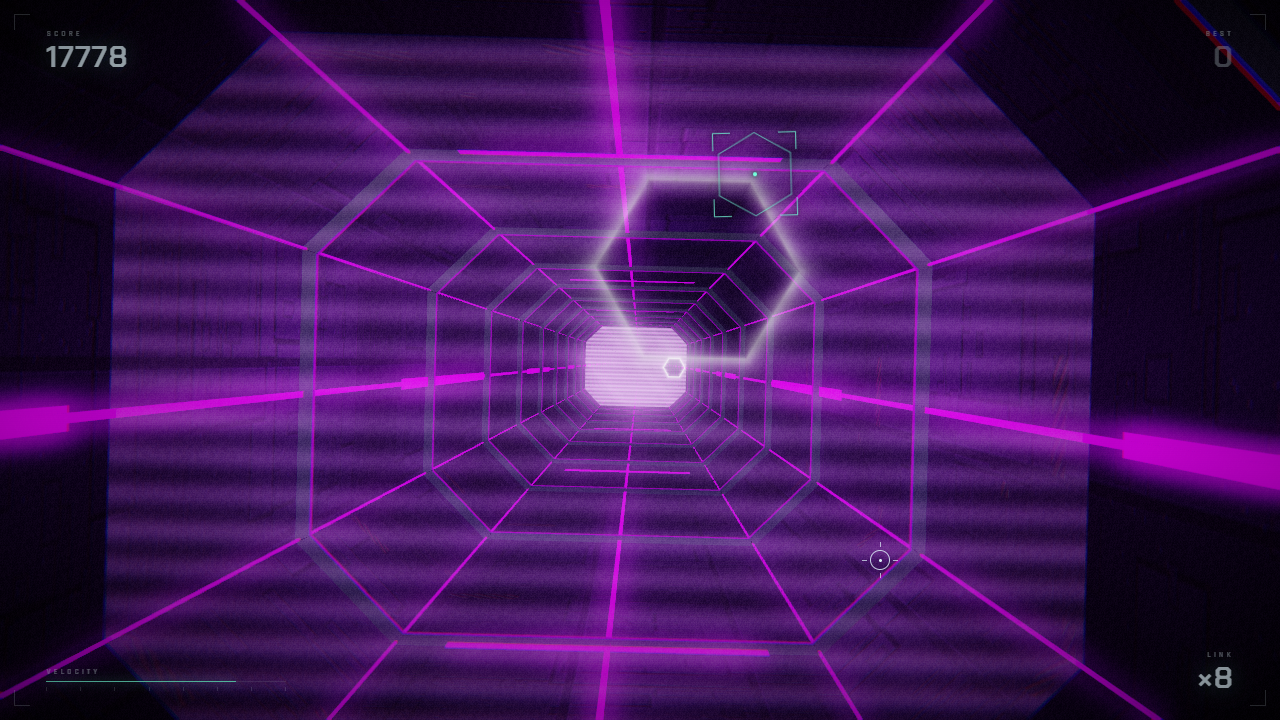
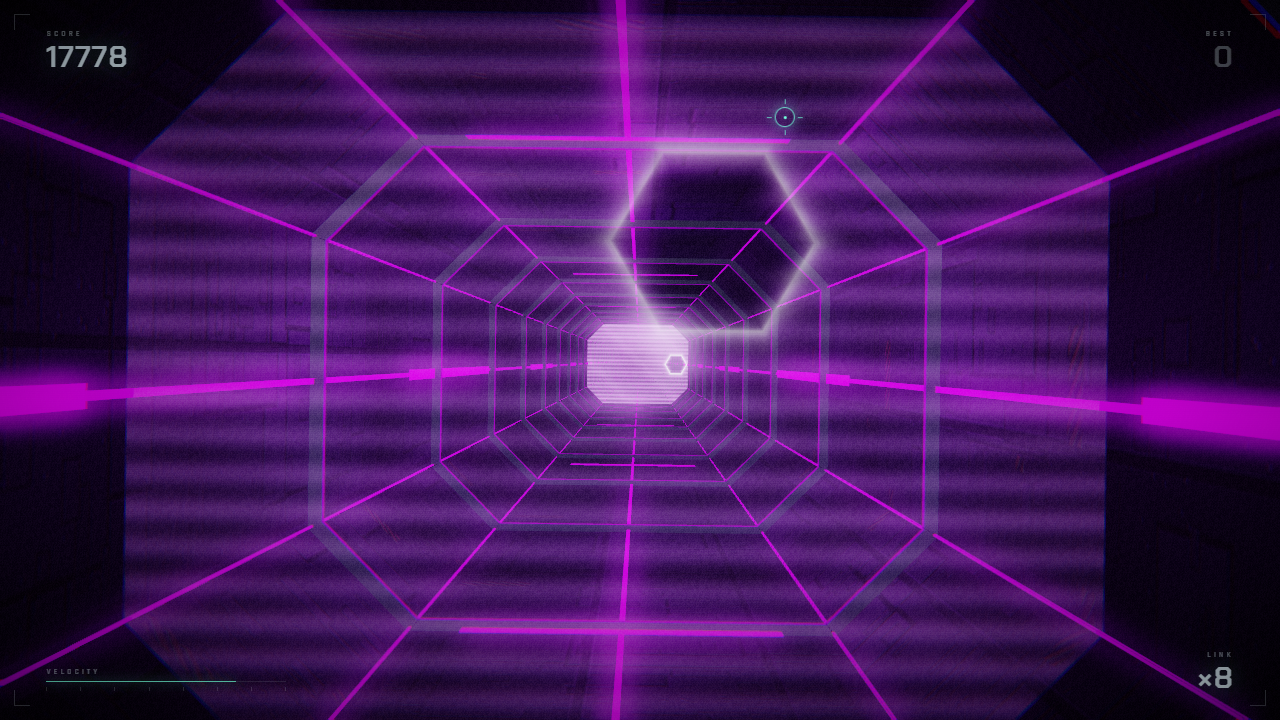
fix(ui): single cursor in flight, tighter follow
- delete the vessel marker entirely; the ring cursor is now the only one
- project that cursor from the vessel instead of the pointer while playing,
  so aim and collision stay the same point
- camera offset 0.42 -> 0.25 and damping tau 90ms -> 50ms, so the cursor
  tracks the hand instead of swimming behind it
- cursor turns accent when it sits inside the next gate opening

diff --git a/js/main.js b/js/main.js
@@ -152,7 +152,7 @@ const RANGE_X = TUNNEL.a - 0.45;
 const RANGE_Y = TUNNEL.b - 0.45;
 /* the camera trails the vessel instead of sitting on it, so the marker you
    steer is visibly *off-centre* — first person, but not glued to the axis */
-const CAM_OFFSET = 0.42;
+const CAM_OFFSET = 0.25;
 const _v3 = new THREE.Vector3();
 
 /* ------------------------------------------------------------------ *
@@ -164,7 +164,6 @@ const elMenu = $('menu'), elHud = $('hud'), elOver = $('over');
 const elScore = $('hud-score'), elBest = $('hud-best');
 const elSpeed = $('hud-speed'), elCombo = $('hud-combo');
 const elMsg = $('center-msg');
-const elVessel = $('vessel');
 const elCursor = $('cursor');
 const elFlash = $('flash'), elPanel = $('panel');
 const elOverScore = $('over-score'), elOverSub = $('over-sub');
@@ -199,17 +198,19 @@ function message(text, secs = 0.9) {
 /* ------------------------------------------------------------------ *
  *  Custom cursor — always visible, never the OS pointer
  * ------------------------------------------------------------------ */
+const PTR = { x: window.innerWidth / 2, y: window.innerHeight / 2 };
+
 function paintCursor(x, y) {
   elCursor.style.transform = `translate3d(${x}px, ${y}px, 0)`;
 }
 paintCursor(window.innerWidth / 2, window.innerHeight / 2);
 if (params.has('cur')) {
   const [cx, cy] = params.get('cur').split(',').map(Number);
-  paintCursor(cx, cy);
+  PTR.x = cx; PTR.y = cy;
 }
 
 window.addEventListener('pointermove', (e) => {
-  paintCursor(e.clientX, e.clientY);
+  PTR.x = e.clientX; PTR.y = e.clientY;
   if (e.pointerType === 'touch') return;
   elCursor.classList.remove('hidden');
 }, { passive: true });
@@ -424,7 +425,7 @@ function step(dt) {
     }
   }
 
-  const damp = 1 - Math.exp(-sdt * 11);
+  const damp = 1 - Math.exp(-sdt * 20);
   const prevX = CAM.x;
   CAM.x += (CAM.tx - CAM.x) * damp;
   CAM.y += (CAM.ty - CAM.y) * damp;
@@ -507,7 +508,7 @@ function step(dt) {
       break;
     }
   }
-  elVessel.classList.toggle('lock', locked && G.state === State.PLAY);
+  elCursor.classList.toggle('lock', locked && G.state === State.PLAY);
 
   // shake ---------------------------------------------------------
   if (G.shake > 0) {
@@ -522,27 +523,23 @@ function step(dt) {
     if (msgTimer <= 0) elMsg.classList.remove('show');
   }
 
-  updateVessel();
-
   updateHud();
 }
 
-/* Because the camera trails the vessel (CAM_OFFSET), the marker lands
-   off-centre and slides across the screen as you steer. This *is* the
-   in-game cursor, so it has to be recomputed on resize as well. */
-function updateVessel() {
-  if (G.state !== State.PLAY && G.state !== State.CRASH) {
-    elVessel.classList.add('hidden');
-    return;
+/* One cursor, everywhere.
+   In menus it sits on the pointer. In flight it is projected from the vessel's
+   world position, so what you aim with is exactly what collides. The camera
+   trails at CAM_OFFSET, which is what makes the cursor slide rather than sit
+   still in the middle of the screen. */
+function updateCursor() {
+  if (G.state === State.PLAY || G.state === State.CRASH) {
+    camera.updateMatrixWorld();
+    _v3.set(CAM.x, CAM.y, -1.6).project(camera);
+    const vw = window.innerWidth, vh = window.innerHeight;
+    paintCursor((_v3.x * 0.5 + 0.5) * vw, (-_v3.y * 0.5 + 0.5) * vh);
+  } else {
+    paintCursor(PTR.x, PTR.y);
   }
-  camera.updateMatrixWorld();
-  _v3.set(CAM.x, CAM.y, -1.6).project(camera);
-  const vw = window.innerWidth, vh = window.innerHeight;
-  const sx = (_v3.x * 0.5 + 0.5) * vw;
-  const sy = (-_v3.y * 0.5 + 0.5) * vh;
-  elVessel.style.transform =
-    `translate3d(${sx.toFixed(1)}px, ${sy.toFixed(1)}px, 0) rotate(${(-CAM.roll * 57.2958).toFixed(2)}deg)`;
-  elVessel.classList.remove('hidden');
 }
 
 /* ------------------------------------------------------------------ *
@@ -551,6 +548,7 @@ function updateVessel() {
 let lastT = performance.now();
 
 function render(now) {
+  updateCursor();
   if (wireframe || NO_POST) {
     renderer.setRenderTarget(null);
     camera.fov = wireframe ? 82 : camera.fov;
@@ -591,7 +589,7 @@ function resize() {
   camera.aspect = w / h;
   camera.updateProjectionMatrix();
   post.setSize(w, h, PR);
-  if (typeof updateVessel === 'function') updateVessel();
+  updateCursor();
 }
 window.addEventListener('resize', resize);
 
@@ -662,7 +660,6 @@ if (FIXED_T !== null) {
   render(performance.now());
   // keep presenting so the compositor definitely picks up the frame
   (function tick() {
-    updateVessel();
     render(performance.now());
     requestAnimationFrame(tick);
   })();

diff --git a/css/style.css b/css/style.css
@@ -111,44 +111,15 @@ html,body{
 #cursor.hover .c-tick.r{ transform:translateX(7px); }
 
 #cursor.down .c-ring{ width:14px; height:14px; margin:-7px 0 0 -7px; }
+#cursor.lock{ color:var(--accent); }
+#cursor.lock .c-ring{ border-color:var(--accent); box-shadow:0 0 14px rgba(116,255,220,.55); }
+#cursor.lock .c-dot{ box-shadow:0 0 10px var(--accent); }
 #cursor.hidden{ opacity:0; }
 
 /* on the white wireframe screen the cursor has to flip to ink */
 .wires #cursor{ color:var(--ink); }
 .wires #cursor.hover{ color:#0b8a6f; }
 .wires #cursor.hover .c-ring{ border-color:#0b8a6f; }
-
-/* ================================================================== *
-   VESSEL — the thing you steer, drawn where it actually is
- * ================================================================== */
-#vessel{
-  position:fixed; left:0; top:0; width:0; height:0;
-  z-index:900; pointer-events:none;
-  will-change:transform;
-  color:rgba(226,244,255,.92);
-  transition:color .14s ease;
-  filter:drop-shadow(0 0 2px rgba(0,0,0,.9)) drop-shadow(0 0 5px rgba(0,0,0,.55));
-}
-#vessel svg{
-  position:absolute; left:-42px; top:-42px;
-  width:84px; height:84px; overflow:visible;
-  transition:width .14s ease, height .14s ease, left .14s ease, top .14s ease, opacity .14s ease;
-  opacity:.9;
-}
-#vessel polygon, #vessel path{
-  fill:none; stroke:currentColor; vector-effect:non-scaling-stroke;
-  stroke-width:1;
-}
-.v-hex{ opacity:.72; }
-.v-br{ opacity:.9; }
-.v-dot{
-  position:absolute; left:-2px; top:-2px; width:4px; height:4px;
-  background:currentColor; border-radius:50%;
-  box-shadow:0 0 6px currentColor;
-}
-#vessel.lock{ color:var(--accent); }
-#vessel.lock svg{ width:96px; height:96px; left:-48px; top:-48px; }
-#vessel.hidden{ opacity:0; }
 
 /* ================================================================== *
    FRAME — lab corner brackets

diff --git a/index.html b/index.html
@@ -27,17 +27,6 @@
   <span class="c-dot"></span>
 </div>
 
-<!-- ============ in-flight vessel marker ============ -->
-<div id="vessel" aria-hidden="true">
-  <svg viewBox="0 0 120 120">
-    <polygon class="v-hex" points="60,8 105,34 105,86 60,112 15,86 15,34"/>
-    <path class="v-br" d="M8 30 L8 8 L30 8"/>
-    <path class="v-br" d="M90 8 L112 8 L112 30"/>
-    <path class="v-br" d="M112 90 L112 112 L90 112"/>
-    <path class="v-br" d="M30 112 L8 112 L8 90"/>
-  </svg>
-  <i class="v-dot"></i>
-</div>
 
 <div id="ui">
 
